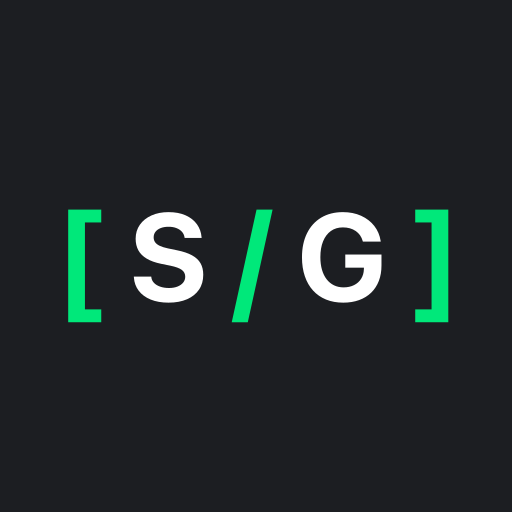
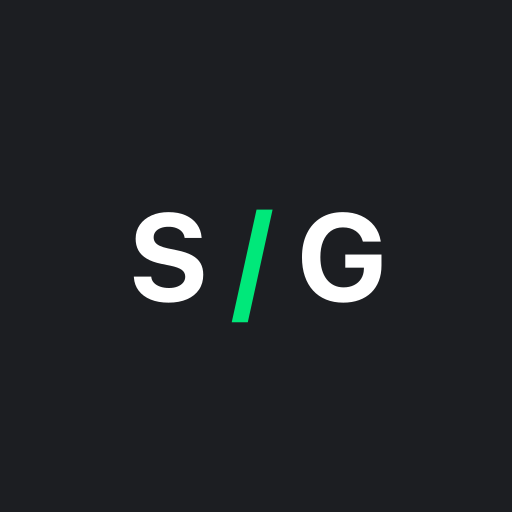
Simplify brand mark to S/G without brackets
Drop the emerald [ ] brackets from the StageGate icon mark across the
React logo component, all committed SVGs, the regenerated PNG favicons
and OG image, email logo text, meta tags, and the logo preview page.

Changed region(s): [[0.125, 0.4062, 0.2188, 0.6562], [0.8125, 0.4062, 0.875, 0.6562]]

diff --git a/client/public/logo-preview.html b/client/public/logo-preview.html
@@ -14,12 +14,12 @@
     </style>
   </head>
   <body>
-    <h1>StageGate [S/G] brand mark</h1>
+      <h1>StageGate S/G brand mark</h1>
     <p style="color:#5A5F64">Static preview · Emerald #00E87A</p>
     <div class="grid">
-      <div class="card"><span class="label">Icon · 32px</span><svg width="32" height="14" viewBox="0 0 72 32"><text x="36" y="24" text-anchor="middle" font-family="'Space Grotesk', system-ui, sans-serif" font-size="22" font-weight="700" letter-spacing="-0.03em"><tspan fill="#00E87A">[</tspan><tspan fill="#FFFFFF">S</tspan><tspan fill="#00E87A">/</tspan><tspan fill="#FFFFFF">G</tspan><tspan fill="#00E87A">]</tspan></text></svg></div>
-      <div class="card"><span class="label">Lockup · 128px</span><svg width="128" height="66" viewBox="0 0 132 68"><text x="66" y="26" text-anchor="middle" font-family="'Space Grotesk', system-ui, sans-serif" font-size="22" font-weight="700" letter-spacing="-0.03em"><tspan fill="#00E87A">[</tspan><tspan fill="#FFFFFF">S</tspan><tspan fill="#00E87A">/</tspan><tspan fill="#FFFFFF">G</tspan><tspan fill="#00E87A">]</tspan></text><text x="66" y="58" text-anchor="middle" font-family="'Space Grotesk', system-ui, sans-serif" font-size="13" font-weight="700" letter-spacing="0.14em"><tspan fill="#FFFFFF">STAGE</tspan><tspan fill="#00E87A">/</tspan><tspan fill="#00E87A">GATE</tspan></text></svg></div>
-      <div class="card light"><span class="label">Light lockup</span><svg width="128" height="66" viewBox="0 0 132 68"><text x="66" y="26" text-anchor="middle" font-family="'Space Grotesk', system-ui, sans-serif" font-size="22" font-weight="700" letter-spacing="-0.03em"><tspan fill="#00E87A">[</tspan><tspan fill="#1C1E22">S</tspan><tspan fill="#00E87A">/</tspan><tspan fill="#1C1E22">G</tspan><tspan fill="#00E87A">]</tspan></text><text x="66" y="58" text-anchor="middle" font-family="'Space Grotesk', system-ui, sans-serif" font-size="13" font-weight="700" letter-spacing="0.14em"><tspan fill="#1C1E22">STAGE</tspan><tspan fill="#00E87A">/</tspan><tspan fill="#00E87A">GATE</tspan></text></svg></div>
+      <div class="card"><span class="label">Icon · 32px</span><svg width="32" height="14" viewBox="0 0 72 32"><text x="36" y="24" text-anchor="middle" font-family="'Space Grotesk', system-ui, sans-serif" font-size="22" font-weight="700" letter-spacing="-0.03em"><tspan fill="#FFFFFF">S</tspan><tspan fill="#00E87A">/</tspan><tspan fill="#FFFFFF">G</tspan></text></svg></div>
+      <div class="card"><span class="label">Lockup · 128px</span><svg width="128" height="66" viewBox="0 0 132 68"><text x="66" y="26" text-anchor="middle" font-family="'Space Grotesk', system-ui, sans-serif" font-size="22" font-weight="700" letter-spacing="-0.03em"><tspan fill="#FFFFFF">S</tspan><tspan fill="#00E87A">/</tspan><tspan fill="#FFFFFF">G</tspan></text><text x="66" y="58" text-anchor="middle" font-family="'Space Grotesk', system-ui, sans-serif" font-size="13" font-weight="700" letter-spacing="0.14em"><tspan fill="#FFFFFF">STAGE</tspan><tspan fill="#00E87A">/</tspan><tspan fill="#00E87A">GATE</tspan></text></svg></div>
+      <div class="card light"><span class="label">Light lockup</span><svg width="128" height="66" viewBox="0 0 132 68"><text x="66" y="26" text-anchor="middle" font-family="'Space Grotesk', system-ui, sans-serif" font-size="22" font-weight="700" letter-spacing="-0.03em"><tspan fill="#1C1E22">S</tspan><tspan fill="#00E87A">/</tspan><tspan fill="#1C1E22">G</tspan></text><text x="66" y="58" text-anchor="middle" font-family="'Space Grotesk', system-ui, sans-serif" font-size="13" font-weight="700" letter-spacing="0.14em"><tspan fill="#1C1E22">STAGE</tspan><tspan fill="#00E87A">/</tspan><tspan fill="#00E87A">GATE</tspan></text></svg></div>
     </div>
   </body>
 </html>

diff --git a/client/index.html b/client/index.html
@@ -13,7 +13,7 @@
     <meta name="color-scheme" content="dark" />
     <meta name="robots" content="index, follow" />
 
-    <!-- Favicons — [S/G] on brand near-black (visible on light browser chrome) -->
+    <!-- Favicons — S/G on brand near-black (visible on light browser chrome) -->
     <link rel="icon" type="image/svg+xml" href="/favicon.svg" />
     <link rel="icon" type="image/png" sizes="32x32" href="/favicon-32x32.png" />
     <link rel="icon" type="image/png" sizes="16x16" href="/favicon-16x16.png" />
@@ -29,7 +29,7 @@
     <meta property="og:image" content="https://onstage.bot/og-image.png" />
     <meta property="og:image:width" content="1200" />
     <meta property="og:image:height" content="630" />
-    <meta property="og:image:alt" content="StageGate [S/G] logo — Robotics Activation Infrastructure" />
+    <meta property="og:image:alt" content="StageGate S/G logo — Robotics Activation Infrastructure" />
     <meta property="og:locale" content="en_US" />
 
     <!-- Twitter / X -->
@@ -37,7 +37,7 @@
     <meta name="twitter:title" content="StageGate — Robotics Activation Infrastructure" />
     <meta name="twitter:description" content="Your robot performs. We make sure it works. Deployment infrastructure for customs, receiving, activation, and field support." />
     <meta name="twitter:image" content="https://onstage.bot/og-image.png" />
-    <meta name="twitter:image:alt" content="StageGate [S/G] logo — Robotics Activation Infrastructure" />
+    <meta name="twitter:image:alt" content="StageGate S/G logo — Robotics Activation Infrastructure" />
 
     <!-- Search / rich results -->
     <link rel="canonical" href="https://onstage.bot/" />

diff --git a/client/src/components/StageGateLogo.tsx b/client/src/components/StageGateLogo.tsx
@@ -36,11 +36,9 @@ function IconMark({
       fontWeight="700"
       letterSpacing="-0.03em"
     >
-      <tspan fill={emerald}>[</tspan>
       <tspan fill={textColor}>S</tspan>
       <tspan fill={emerald}>/</tspan>
       <tspan fill={textColor}>G</tspan>
-      <tspan fill={emerald}>]</tspan>
     </text>
   );
 }
@@ -76,7 +74,7 @@ function Wordmark({
 }
 
 /**
- * StageGate brand mark — [S/G] icon with optional STAGE/GATE lockup.
+ * StageGate brand mark — S/G icon with optional STAGE/GATE lockup.
  */
 export default function StageGateLogo({
   size = 32,

diff --git a/shared/siteBrand.ts b/shared/siteBrand.ts
@@ -10,10 +10,10 @@ export const SITE_BRAND = {
   nearBlack: "#1C1E22",
 } as const;
 
-/** Inline email-safe logo mark (square [S/G] icon). */
+/** Inline email-safe logo mark (square S/G icon). */
 export function emailLogoHtml(size = 48): string {
   return `<img src="${SITE_BRAND.logoIconUrl}" alt="${SITE_BRAND.name}" width="${size}" height="${size}" style="display:block;border:0;border-radius:8px;" />`;
 }
 
 /** Text fallback lockup for plain-text contexts. */
-export const emailLogoText = "[S/G] StageGate";
+export const emailLogoText = "S/G StageGate";

diff --git a/client/src/pages/LogoPreview.tsx b/client/src/pages/LogoPreview.tsx
@@ -8,7 +8,7 @@ export default function LogoPreview() {
         StageGate brand mark
       </h1>
       <p style={{ color: BRAND.midGray, marginBottom: "2rem", fontSize: "0.9rem" }}>
-        Official [S/G] icon and STAGE/GATE lockup · Emerald {BRAND.emerald}
+        Official S/G icon and STAGE/GATE lockup · Emerald {BRAND.emerald}
       </p>
 
       <div style={{ display: "grid", gridTemplateColumns: "repeat(auto-fit, minmax(220px, 1fr))", gap: "1rem", maxWidth: "960px" }}>
